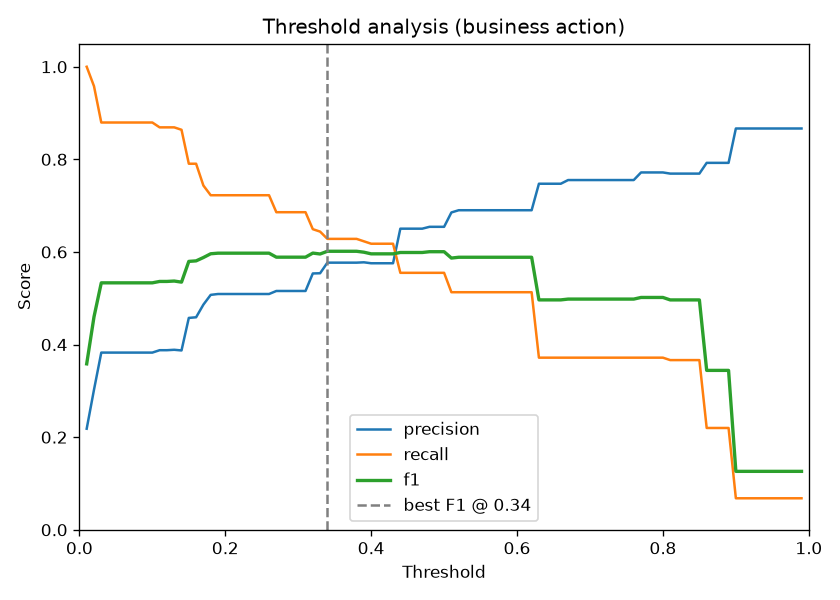
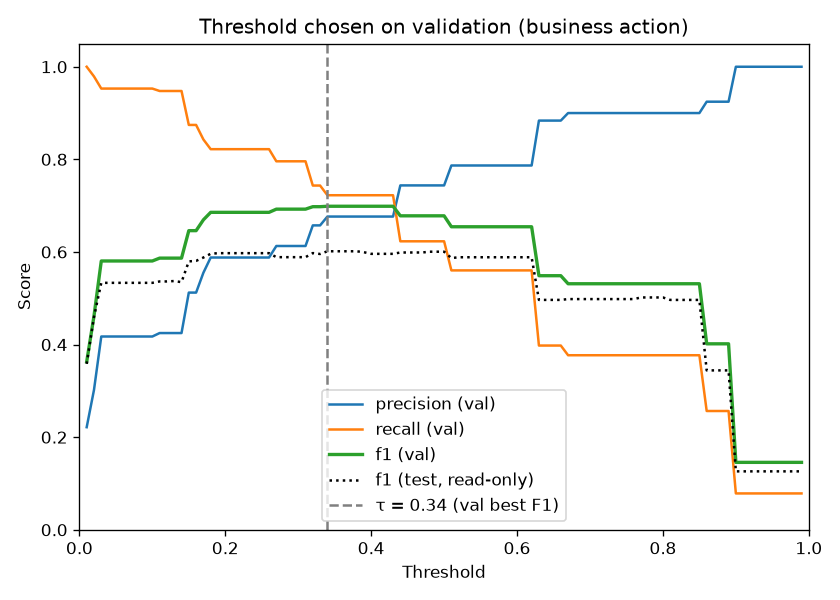
fix: choose tau on validation; Santosh calibrated 0.016; NaN-safe risk_band
- evaluate.py swept the best-F1 threshold on calibrated TEST probabilities,
  leaking the holdout into a serving decision (and contradicting the docs /
  articles). It now sweeps validation, freezes tau, and reads test once at
  tau. The validation optimum is also 0.34, so tau, test F1 at tau (0.6015),
  Santosh's HITL action and all published numbers are unchanged; metrics.json
  gains best_f1_threshold_source + val_f1_at_threshold (0.699); model card,
  BENCHMARKS Table B and the threshold plot show the validation sweep.
- Santosh calibrated P(churn) is 0.016461 -> 0.016 at 3 dp (docs said 0.017
  by double rounding); canary expectation updated.
- risk_band raises on NaN/inf instead of silently returning "high"
  (which escalated).

make e2e-local on Python 3.12: 182/182 committed metric values reproduce.

Claude-Session: https://claude.ai/code/session_014aDAGMtxuMeFF7LNsKRzLS

diff --git a/src/retention_radar/evaluation/evaluate.py b/src/retention_radar/evaluation/evaluate.py
@@ -1,4 +1,10 @@
-"""Evaluate saved model: ROC, PR, calibration, threshold analysis."""
+"""Evaluate saved model: ROC, PR, calibration, threshold analysis.
+
+The operating threshold τ (``best_f1_threshold``) is chosen by a best-F1 sweep
+on the calibrated **validation** probabilities and then frozen; test metrics are
+reported once at that τ (``best_f1_at_threshold`` = test F1 at τ). Choosing τ on
+test would leak the holdout into a serving decision.
+"""
 
 from __future__ import annotations
 
@@ -62,18 +68,22 @@ def main() -> None:
 
     df = load_users()
     X, y = prepare_xy(df)
-    _, _, X_test, _, _, y_test = stratified_train_val_test(X, y)
+    _, X_val, X_test, _, y_val, y_test = stratified_train_val_test(X, y)
 
     model, feature_names = load_model()
     X_test = X_test[feature_names]
+    X_val = X_val[feature_names]
     y_prob_raw = model.predict_proba(X_test)[:, 1]
+    y_val_raw = model.predict_proba(X_val)[:, 1]
 
     calibrator = load_calibrator(config.CALIBRATOR_PATH)
     if calibrator is not None:
         y_prob = calibrator.transform(y_prob_raw)
+        y_val_prob = calibrator.transform(y_val_raw)
         used_calibrated = True
     else:
         y_prob = y_prob_raw
+        y_val_prob = y_val_raw
         used_calibrated = False
 
     y_pred = (y_prob >= 0.5).astype(int)
@@ -151,22 +161,22 @@ def main() -> None:
     plt.close(fig)
     print(f"Saved {cal_path}")
 
-    sweep = threshold_sweep(y_test, y_prob)
+    # τ is chosen on validation, then frozen; test is only read at that τ.
+    sweep = threshold_sweep(y_val, y_val_prob)
+    tau = sweep["best_threshold"]
+    test_rows = threshold_sweep(y_test, y_prob)["rows"]
+    test_f1_at_tau = float(f1_score(y_test, (y_prob >= tau).astype(int), zero_division=0))
     rows = sweep["rows"]
     ts = [r["threshold"] for r in rows]
     fig, ax = plt.subplots(figsize=(7, 5))
-    ax.plot(ts, [r["precision"] for r in rows], label="precision")
-    ax.plot(ts, [r["recall"] for r in rows], label="recall")
-    ax.plot(ts, [r["f1"] for r in rows], label="f1", linewidth=2)
-    ax.axvline(
-        sweep["best_threshold"],
-        color="gray",
-        linestyle="--",
-        label=f"best F1 @ {sweep['best_threshold']:.2f}",
-    )
+    ax.plot(ts, [r["precision"] for r in rows], label="precision (val)")
+    ax.plot(ts, [r["recall"] for r in rows], label="recall (val)")
+    ax.plot(ts, [r["f1"] for r in rows], label="f1 (val)", linewidth=2)
+    ax.plot(ts, [r["f1"] for r in test_rows], ":", color="black", label="f1 (test, read-only)")
+    ax.axvline(tau, color="gray", linestyle="--", label=f"τ = {tau:.2f} (val best F1)")
     ax.set_xlabel("Threshold")
     ax.set_ylabel("Score")
-    ax.set_title("Threshold analysis (business action)")
+    ax.set_title("Threshold chosen on validation (business action)")
     ax.legend(loc="best")
     ax.set_xlim(0, 1)
     ax.set_ylim(0, 1.05)
@@ -176,8 +186,10 @@ def main() -> None:
     plt.close(fig)
     print(f"Saved {thr_path}")
 
-    metrics["best_f1_threshold"] = sweep["best_threshold"]
-    metrics["best_f1_at_threshold"] = sweep["best_f1"]
+    metrics["best_f1_threshold"] = tau
+    metrics["best_f1_threshold_source"] = "validation"
+    metrics["val_f1_at_threshold"] = sweep["best_f1"]
+    metrics["best_f1_at_threshold"] = test_f1_at_tau
 
     prec, rec, _ = precision_recall_curve(y_test, y_prob)
     metrics["pr_curve_points"] = int(len(prec))
@@ -196,8 +208,10 @@ def main() -> None:
     out["brier_raw_test"] = brier_raw
     out["brier_calibrated_test"] = brier_cal
     out["average_precision_test"] = ap
-    out["best_f1_threshold"] = sweep["best_threshold"]
-    out["best_f1_at_threshold"] = sweep["best_f1"]
+    out["best_f1_threshold"] = tau
+    out["best_f1_threshold_source"] = "validation"
+    out["val_f1_at_threshold"] = sweep["best_f1"]
+    out["best_f1_at_threshold"] = test_f1_at_tau
     out["slice_metrics_by_plan_tier"] = slice_block
     with open(config.METRICS_PATH, "w", encoding="utf-8") as f:
         json.dump(out, f, indent=2)

diff --git a/src/retention_radar/docs_gen.py b/src/retention_radar/docs_gen.py
@@ -305,8 +305,9 @@ def write_model_card(metrics: dict | None = None, path: Path | None = None) -> P
         "|----------|-------|",
         f"| Test AUC-ROC (calibrated) | `{_fmt_scalar(op_auc)}` |",
         f"| Test PR-AUC / AP | `{_fmt_scalar(op_ap)}` |",
-        f"| Best F1 threshold τ | `{_fmt_scalar(metrics.get('best_f1_threshold'), 2)}` |",
-        f"| Best F1 at τ | `{_fmt_scalar(metrics.get('best_f1_at_threshold'))}` |",
+        f"| Best F1 threshold τ (chosen on validation) | `{_fmt_scalar(metrics.get('best_f1_threshold'), 2)}` |",
+        f"| F1 at τ (validation) | `{_fmt_scalar(metrics.get('val_f1_at_threshold'))}` |",
+        f"| F1 at τ (test, reported once) | `{_fmt_scalar(metrics.get('best_f1_at_threshold'))}` |",
         f"| F1 @ 0.5 | `{_fmt(metrics.get('calibrated_test'), 'f1')}` |",
     ]
     lat = metrics.get("latency") or {}

diff --git a/src/retention_radar/serving/policy.py b/src/retention_radar/serving/policy.py
@@ -6,11 +6,18 @@ duplicating band cutoffs or auto-action rules.
 
 from __future__ import annotations
 
+import math
 from typing import Any
 
 
 def risk_band(prob: float) -> str:
-    """Map a (usually calibrated) probability onto low / medium / high."""
+    """Map a (usually calibrated) probability onto low / medium / high.
+
+    Edges are fixed product constants (not τ): low < 0.30 ≤ medium < 0.60 ≤ high.
+    A non-finite probability raises instead of silently landing in "high".
+    """
+    if not math.isfinite(prob):
+        raise ValueError(f"risk_band needs a finite probability, got {prob!r}")
     if prob < 0.30:
         return "low"
     if prob < 0.60:

diff --git a/tests/test_package_layout.py b/tests/test_package_layout.py
@@ -85,3 +85,16 @@ def test_streamlit_scores_active_santosh():
     )
     assert "resolve_santosh_json" in text
     assert "SANTOSH_JSON" not in text
+
+
+def test_risk_band_rejects_non_finite():
+    import math
+
+    import pytest
+
+    for bad in (math.nan, math.inf, -math.inf):
+        with pytest.raises(ValueError):
+            risk_band(bad)
+    assert [risk_band(p) for p in (0.0, 0.2999, 0.30, 0.5999, 0.60, 1.0)] == [
+        "low", "low", "medium", "medium", "high", "high",
+    ]

diff --git a/tests/test_seed42_canary.py b/tests/test_seed42_canary.py
@@ -56,7 +56,7 @@ def test_seed42_santosh_scores(canary_paths):
     cal_f = float(cal)
 
     assert abs(raw - 0.043) <= TOL_PROB, f"raw={raw}"
-    assert abs(cal_f - 0.017) <= TOL_PROB, f"cal={cal_f}"
+    assert abs(cal_f - 0.016) <= TOL_PROB, f"cal={cal_f}"
 
     band = risk_band(cal_f)
     assert band == "low", band

diff --git a/CHANGELOG.md b/CHANGELOG.md
@@ -1,6 +1,8 @@
 ## Unreleased
 
-- fix: published seed-42 numbers now reproduce locally. The committed bundle was trained with XGBoost 3.4.1, which needs Python 3.12, but the repo documented/tested Python 3.11 with `xgboost>=2.0` (pip resolved 3.2.0 → τ 0.34 → 0.42, Santosh raw 0.043 → 0.052). Runtime is now Python 3.12+ (`runtime.txt`, CI, `requires-python`), model-affecting libs are pinned, and a clean `make run` re-creates all 178 non-latency metrics exactly.
+- fix: τ (`best_f1_threshold`) is now chosen by a best-F1 sweep on calibrated **validation** probabilities and frozen; test is read once at τ. It was previously swept on test (holdout leakage into a serving decision). The validation optimum is also **0.34**, so τ, test F1 at τ (0.6015), Santosh's action and every published number are unchanged; metrics.json gains `best_f1_threshold_source` and `val_f1_at_threshold` (0.699), and the threshold plot shows the validation sweep.
+- fix: Santosh's calibrated probability is 0.016461 → **0.016** at 3 dp (docs said 0.017 via double rounding); `risk_band` raises on NaN/inf instead of returning "high".
+- fix: published seed-42 numbers now reproduce locally. The committed bundle was trained with XGBoost 3.4.1, which needs Python 3.12, but the repo documented/tested Python 3.11 with `xgboost>=2.0` (pip resolved 3.2.0 → τ 0.34 → 0.42, Santosh raw 0.043 → 0.052). Runtime is now Python 3.12+ (`runtime.txt`, CI, `requires-python`), model-affecting libs are pinned, and a clean `make run` re-creates all 182 non-latency metrics exactly.
 - feat: `make reproduce` / `cli.check_reproduction` (retrain in isolation, diff vs committed metrics + Santosh packet) and `make e2e-local` / `scripts/run_local_e2e.sh` (reproduce, pytest, every CLI surface, live API + Streamlit, lakehouse E2E vs committed summary, isolation check); CI job `e2e-local` runs it. Headless Streamlit AppTest added to pytest.
 - fix: Makefile targets use `.venv` without manual activation and `make setup` refuses Python < 3.12; lakehouse E2E uses the project venv and an absolute interpreter path; `LAKEHOUSE_SUMMARY_PATH` lets verification runs avoid rewriting the committed summary.
 - fix: `run_all.sh` wrote the Santosh packet to `artifacts/` regardless of `RETENTION_RADAR_ARTIFACT_DIR`, so lakehouse E2E clobbered the synthetic packet and wrote `null` Santosh fields into `results/lakehouse-e2e-summary.json`; the summary step now refuses to run without the packet. Re-verified lakehouse E2E on Python 3.12 (calibrated test AUC ≈ 0.694; Santosh 0.399 → 0.170 · low · nurture — unchanged from the published summary).

diff --git a/results/BENCHMARKS.md b/results/BENCHMARKS.md
@@ -58,8 +58,9 @@ Numbers rounded from [`../models/metrics.json`](../models/metrics.json) (CatBoos
 | Brier raw (test) | **0.138** |
 | Brier calibrated (test) | **0.106** |
 | Calibration method | isotonic (fit on validation) |
-| Best F1 threshold τ | **0.34** |
-| Best F1 at that τ | **0.602** |
+| Best F1 threshold τ (swept on **validation**, then frozen) | **0.34** |
+| F1 at τ — validation | **0.699** |
+| F1 at τ — test (read once) | **0.602** |
 | Calibrated test AP | **0.612** |
 
 ---
@@ -127,7 +128,7 @@ make docs-results   # refresh results/plots/ from artifacts/
 
 Or, without touching committed files: `make reproduce` retrains into `artifacts/repro/` and diffs every value against [`../models/metrics.json`](../models/metrics.json) (latency excluded — it is machine-dependent).
 
-**Reproducibility is exact, not approximate, on the pinned stack:** Python 3.12 + `requirements.txt` (XGBoost 3.4.1, scikit-learn 1.9.1, Optuna 5.0.0, LightGBM 4.7.0, CatBoost 1.2.10) re-creates all 178 non-latency values bit-for-bit and a byte-identical `churn_xgb.joblib` (verified 2026-09-25). On Python 3.11 pip can only install XGBoost ≤ 3.2, so every XGBoost-derived number drifts (e.g. best-F1 τ 0.34 → 0.42) while Dummy / LogReg / RF / LightGBM / CatBoost still match. Changing the generator also breaks bit-identical AUC — update the model card and this narrative together.
+**Reproducibility is exact, not approximate, on the pinned stack:** Python 3.12 + `requirements.txt` (XGBoost 3.4.1, scikit-learn 1.9.1, Optuna 5.0.0, LightGBM 4.7.0, CatBoost 1.2.10) re-creates all 182 non-latency values bit-for-bit and a byte-identical `churn_xgb.joblib` (verified 2026-09-25). On Python 3.11 pip can only install XGBoost ≤ 3.2, so every XGBoost-derived number drifts (e.g. best-F1 τ 0.34 → 0.42) while Dummy / LogReg / RF / LightGBM / CatBoost still match. Changing the generator also breaks bit-identical AUC — update the model card and this narrative together.
 
 **Cite the JSON**, not this markdown alone: every Table A–D cell is a rounded view of [`../models/metrics.json`](../models/metrics.json).
 

diff --git a/docs/ARCHITECTURE.md b/docs/ARCHITECTURE.md
@@ -150,7 +150,7 @@ retention-radar/
 **Batch gold scores:** `python -m retention_radar.cli.batch_score` → `artifacts/predictions/scores.csv`.  
 **Interactive:** Streamlit → load Santosh → edit → score + SHAP.  
 **Thin API:** `uvicorn retention_radar.serving.api:app --app-dir src` → `POST /v1/churn/score`.  
-**Canary:** freeze Santosh JSON; diff `P(churn)` after retrain (reference **0.043 / 0.017** · monitor).
+**Canary:** freeze Santosh JSON; diff `P(churn)` after retrain (reference **0.043 / 0.016** · monitor).
 
 ## Non-goals
 
@@ -176,7 +176,7 @@ The layout is a **teaching** SOLID sketch, not a claim that every file is a text
 | `training/train.py` | Fit default XGB + Optuna; write artifacts | Optuna search space can grow without serve changes | Best model still `predict_proba` | Does not own HITL copy | Writes files; UI never imports Optuna |
 | `training/calibrate.py` | Fit/persist probability map | Method `isotonic`/`sigmoid` | `ProbabilityCalibrator` honours `Calibrator` | Transform-only | Scorer depends on Protocol, not sklearn class |
 | `evaluation/metrics.py` | Metric dict helper | Extra keys without changing plots | — | No I/O | Train/eval share one helper |
-| `evaluation/evaluate.py` | Holdout plots + τ sweep | New plots without retraining | — | Not a trainer | Reads artifacts |
+| `evaluation/evaluate.py` | Holdout plots + τ sweep on validation (test read once at τ) | New plots without retraining | — | Not a trainer | Reads artifacts |
 | `evaluation/slices.py` | Educational `plan_tier` slices | New slice keys without claiming fairness | — | Slice report ≠ DPIA API | Evaluate calls slices |
 | `evaluation/benchmark.py` | Latency only | — | — | No training | Reads serve path |
 | **`serving/scoring.py`** | `CalibratedScorer`: raw → calibrated → display | New calibrator without UI changes | Dummy / LogReg / XGB all `predict_proba` | Tiny class: `raw_positive` + `score` | **Depends on `ProbabilisticClassifier` + `Calibrator` Protocols** (DIP) |

diff --git a/results/SANTOSH_ANALYSIS.md b/results/SANTOSH_ANALYSIS.md
@@ -13,7 +13,7 @@ End-to-end outcome for the hero JSON through Retention Radar (seed **42**, synth
 | Field | Value |
 |-------|-------|
 | Raw P(churn) | **0.043** |
-| Calibrated P(churn) | **0.017** |
+| Calibrated P(churn) | **0.016** |
 | Risk band | **low** |
 | Best-F1 τ (frozen) | **0.34** |
 | Half-τ (monitor gate) | **0.17** |
@@ -42,7 +42,7 @@ Exact floats live in the packet JSON; do not treat SHAP as causation.
 ## Why this packet exists
 
 1. **Canary for train≠serve** — same 22-name contract as training; serve only loads artifacts.  
-2. **Calibration teaching** — raw **0.043** → cal **0.017** both belong on the UI.  
+2. **Calibration teaching** — raw **0.043** → cal **0.016** both belong on the UI.  
 3. **HITL policy** — calibrated p ≪ 0.5×τ → **monitor**, never auto-cancel.  
 4. **UX honesty** — engaged-looking user + mild friction → still **low**; do not over-alarm.
 
@@ -52,7 +52,7 @@ Exact floats live in the packet JSON; do not treat SHAP as causation.
 
 | World | Santosh scores | Where |
 |-------|----------------|-------|
-| **Synthetic (published)** | raw ≈ 0.043 / cal ≈ 0.017 · low · monitor | This analysis + `models/` |
+| **Synthetic (published)** | raw ≈ 0.043 / cal ≈ 0.016 · low · monitor | This analysis + `models/` |
 | **Lakehouse gold** | different as-of profile (see summary JSON) | [`lakehouse-e2e-summary.json`](lakehouse-e2e-summary.json) |
 
 Published Medium / README numbers are the **synthetic** row.

diff --git a/docs/guides/e2e-free-platforms.md b/docs/guides/e2e-free-platforms.md
@@ -71,7 +71,7 @@ On every push/PR to `main`, ubuntu-latest + Python 3.12:
 
 1. `pip install -r requirements.txt && pip install -e .` (+ `ruff`)
 2. Snapshot the committed seed-42 serve bundle (`models/*.joblib` + JSON) into `.ci_seed42_fixtures/`
-3. Seed-42 canary: `pytest tests/test_seed42_canary.py tests/test_artifact_dir_isolation.py` against the **committed** bundle (Santosh raw ≈ 0.043 → calibrated ≈ 0.017 → low → monitor)
+3. Seed-42 canary: `pytest tests/test_seed42_canary.py tests/test_artifact_dir_isolation.py` against the **committed** bundle (Santosh raw ≈ 0.043 → calibrated ≈ 0.016 → low → monitor)
 4. `ruff check src/ tests/ app/`
 5. `./scripts/run_all.sh` with `N_USERS=800`, `N_OPTUNA_TRIALS=5` (generate → ingest → train → evaluate → slices → explain → benchmark → infer → drift → Santosh packet)
 6. `pytest -q` (full suite on the freshly trained smoke bundle)

diff --git a/README.md b/README.md
@@ -32,7 +32,7 @@ Full map: [docs/guides/START_HERE.md](docs/guides/START_HERE.md). Do **not** clo
 | HITL only (`auto_action: none`) | Auto account cancellation |
 | Public **code + benchmarks + results** | Medium article home (internal) |
 
-**One-record example (seed 42):** raw **0.043** → calibrated **0.017** → band **low** → HITL **monitor**.
+**One-record example (seed 42):** raw **0.043** → calibrated **0.016** → band **low** → HITL **monitor**.
 
 **Honest ladder (test AUC):** LogReg / CatBoost **0.872** · Optuna XGB **0.870** · RF **0.868** · LightGBM **0.865**. Serving hero = **calibrated XGBoost**. Full tables: [`models/metrics.json`](models/metrics.json) · [results/BENCHMARKS.md](results/BENCHMARKS.md).
 

diff --git a/docs/MODEL_CARD.md b/docs/MODEL_CARD.md
@@ -1,6 +1,6 @@
 # Model card — AI platform churn (XGBoost)
 
-_Generated: 2026-09-15 · seed=42_
+_Generated: 2026-09-25 · seed=42_
 
 ## Overview
 
@@ -55,10 +55,11 @@ Method: `isotonic`.
 |----------|-------|
 | Test AUC-ROC (calibrated) | `0.8665` |
 | Test PR-AUC / AP | `0.6117` |
-| Best F1 threshold τ | `0.34` |
-| Best F1 at τ | `0.6015` |
+| Best F1 threshold τ (chosen on validation) | `0.34` |
+| F1 at τ (validation) | `0.6987` |
+| F1 at τ (test, reported once) | `0.6015` |
 | F1 @ 0.5 | `0.6006` |
-| Warm latency p50 / p95 (ms) | `2.01` / `2.15` |
+| Warm latency p50 / p95 (ms) | `24.03` / `32.09` |
 
 ## Result plots
 
